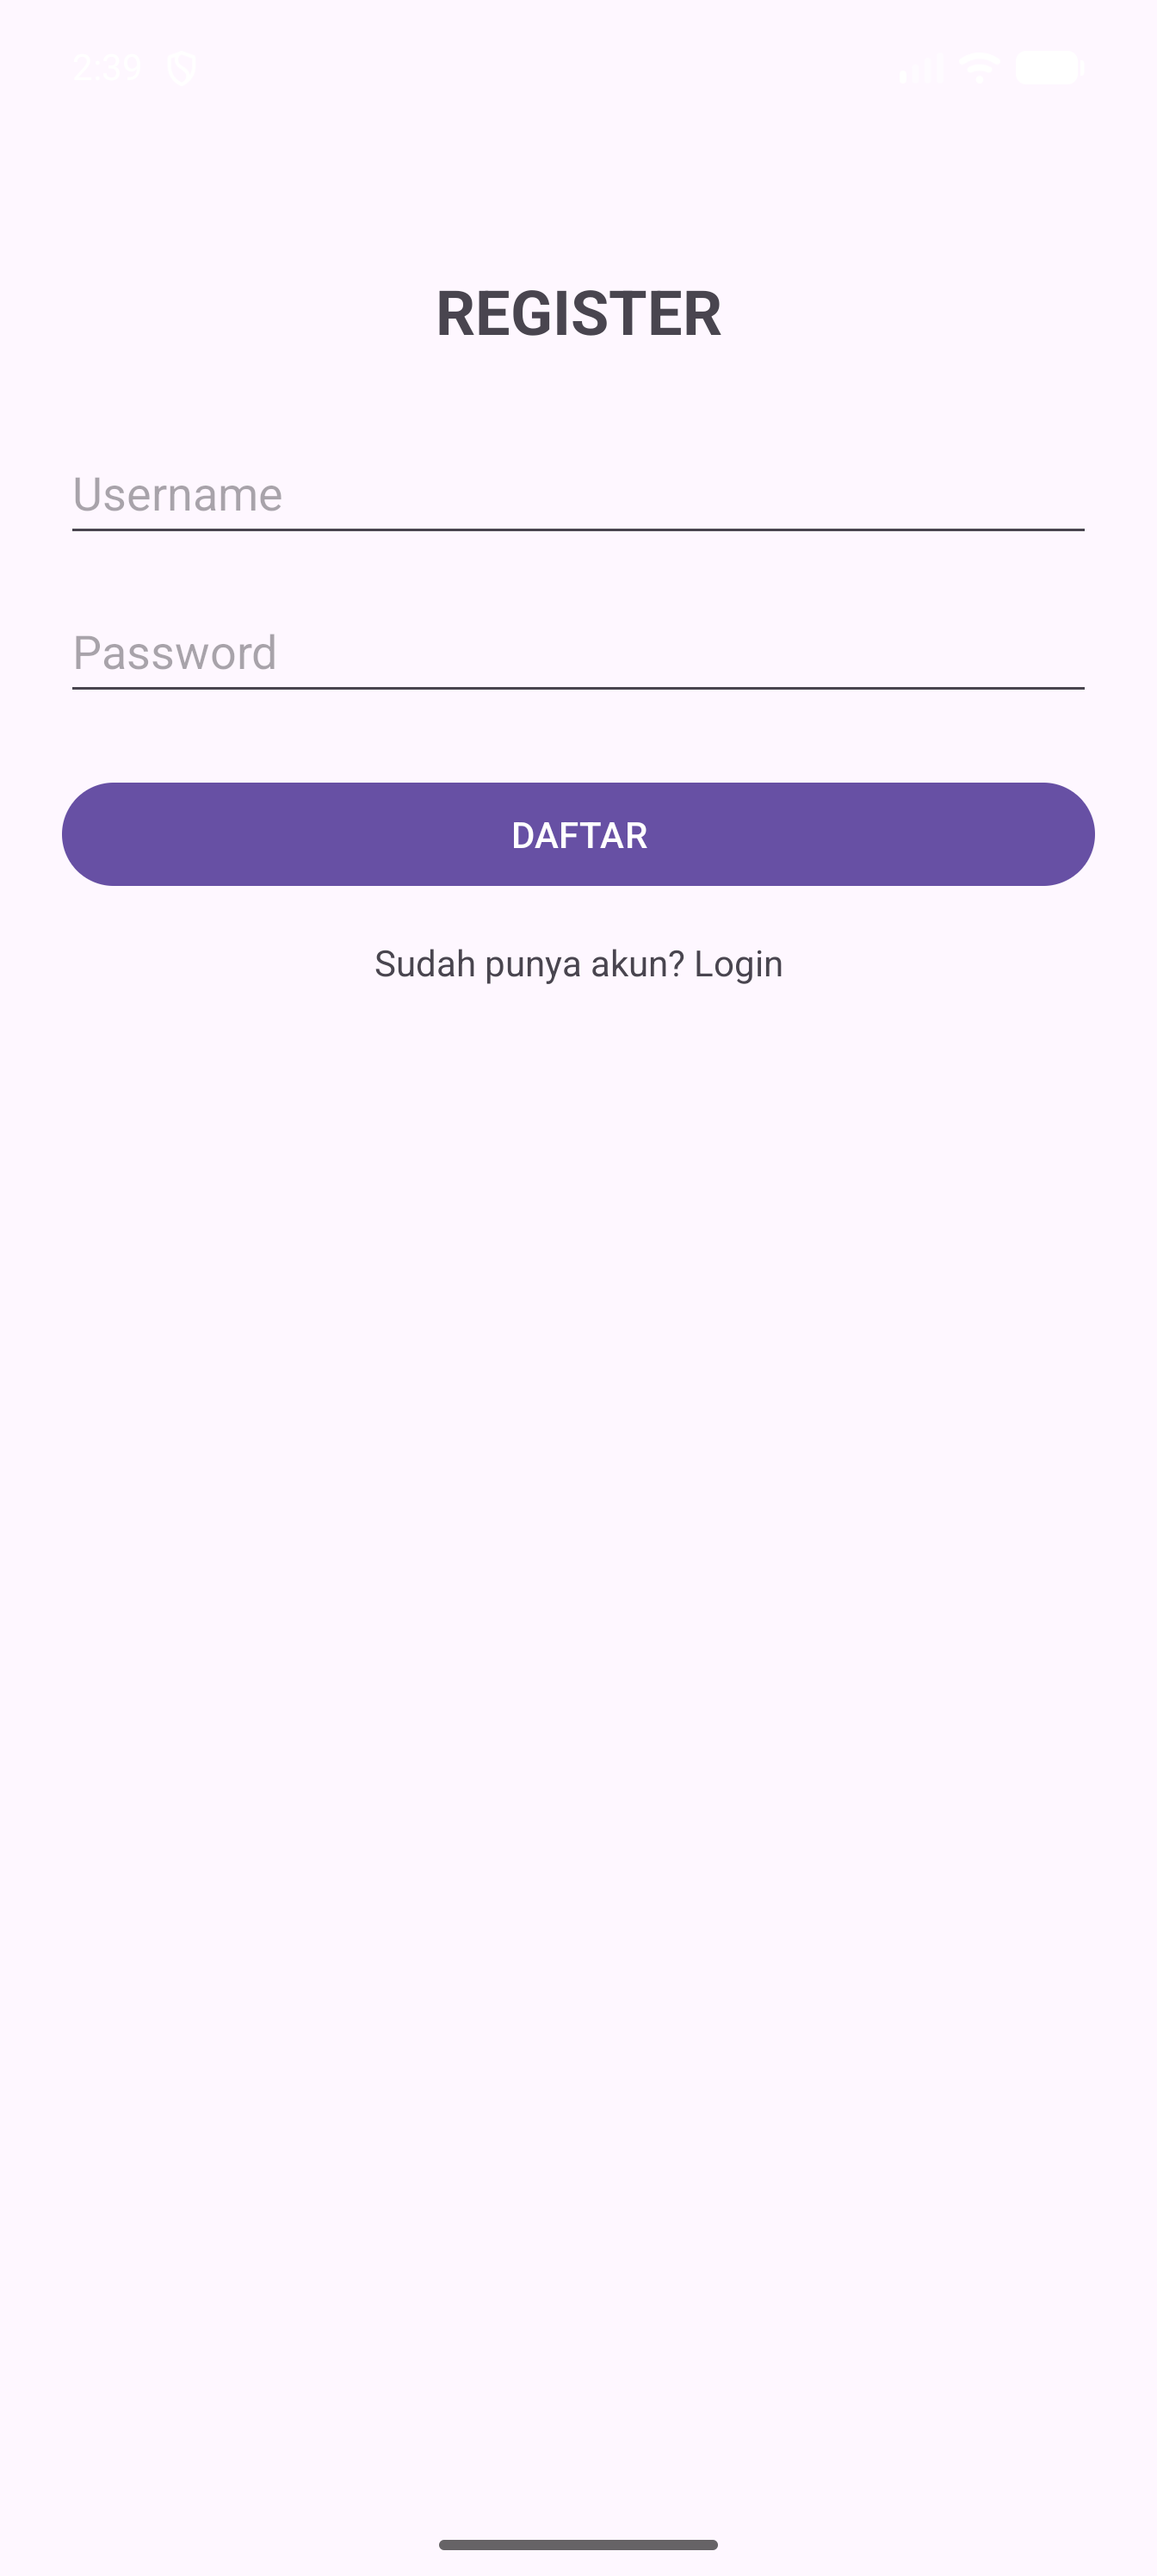
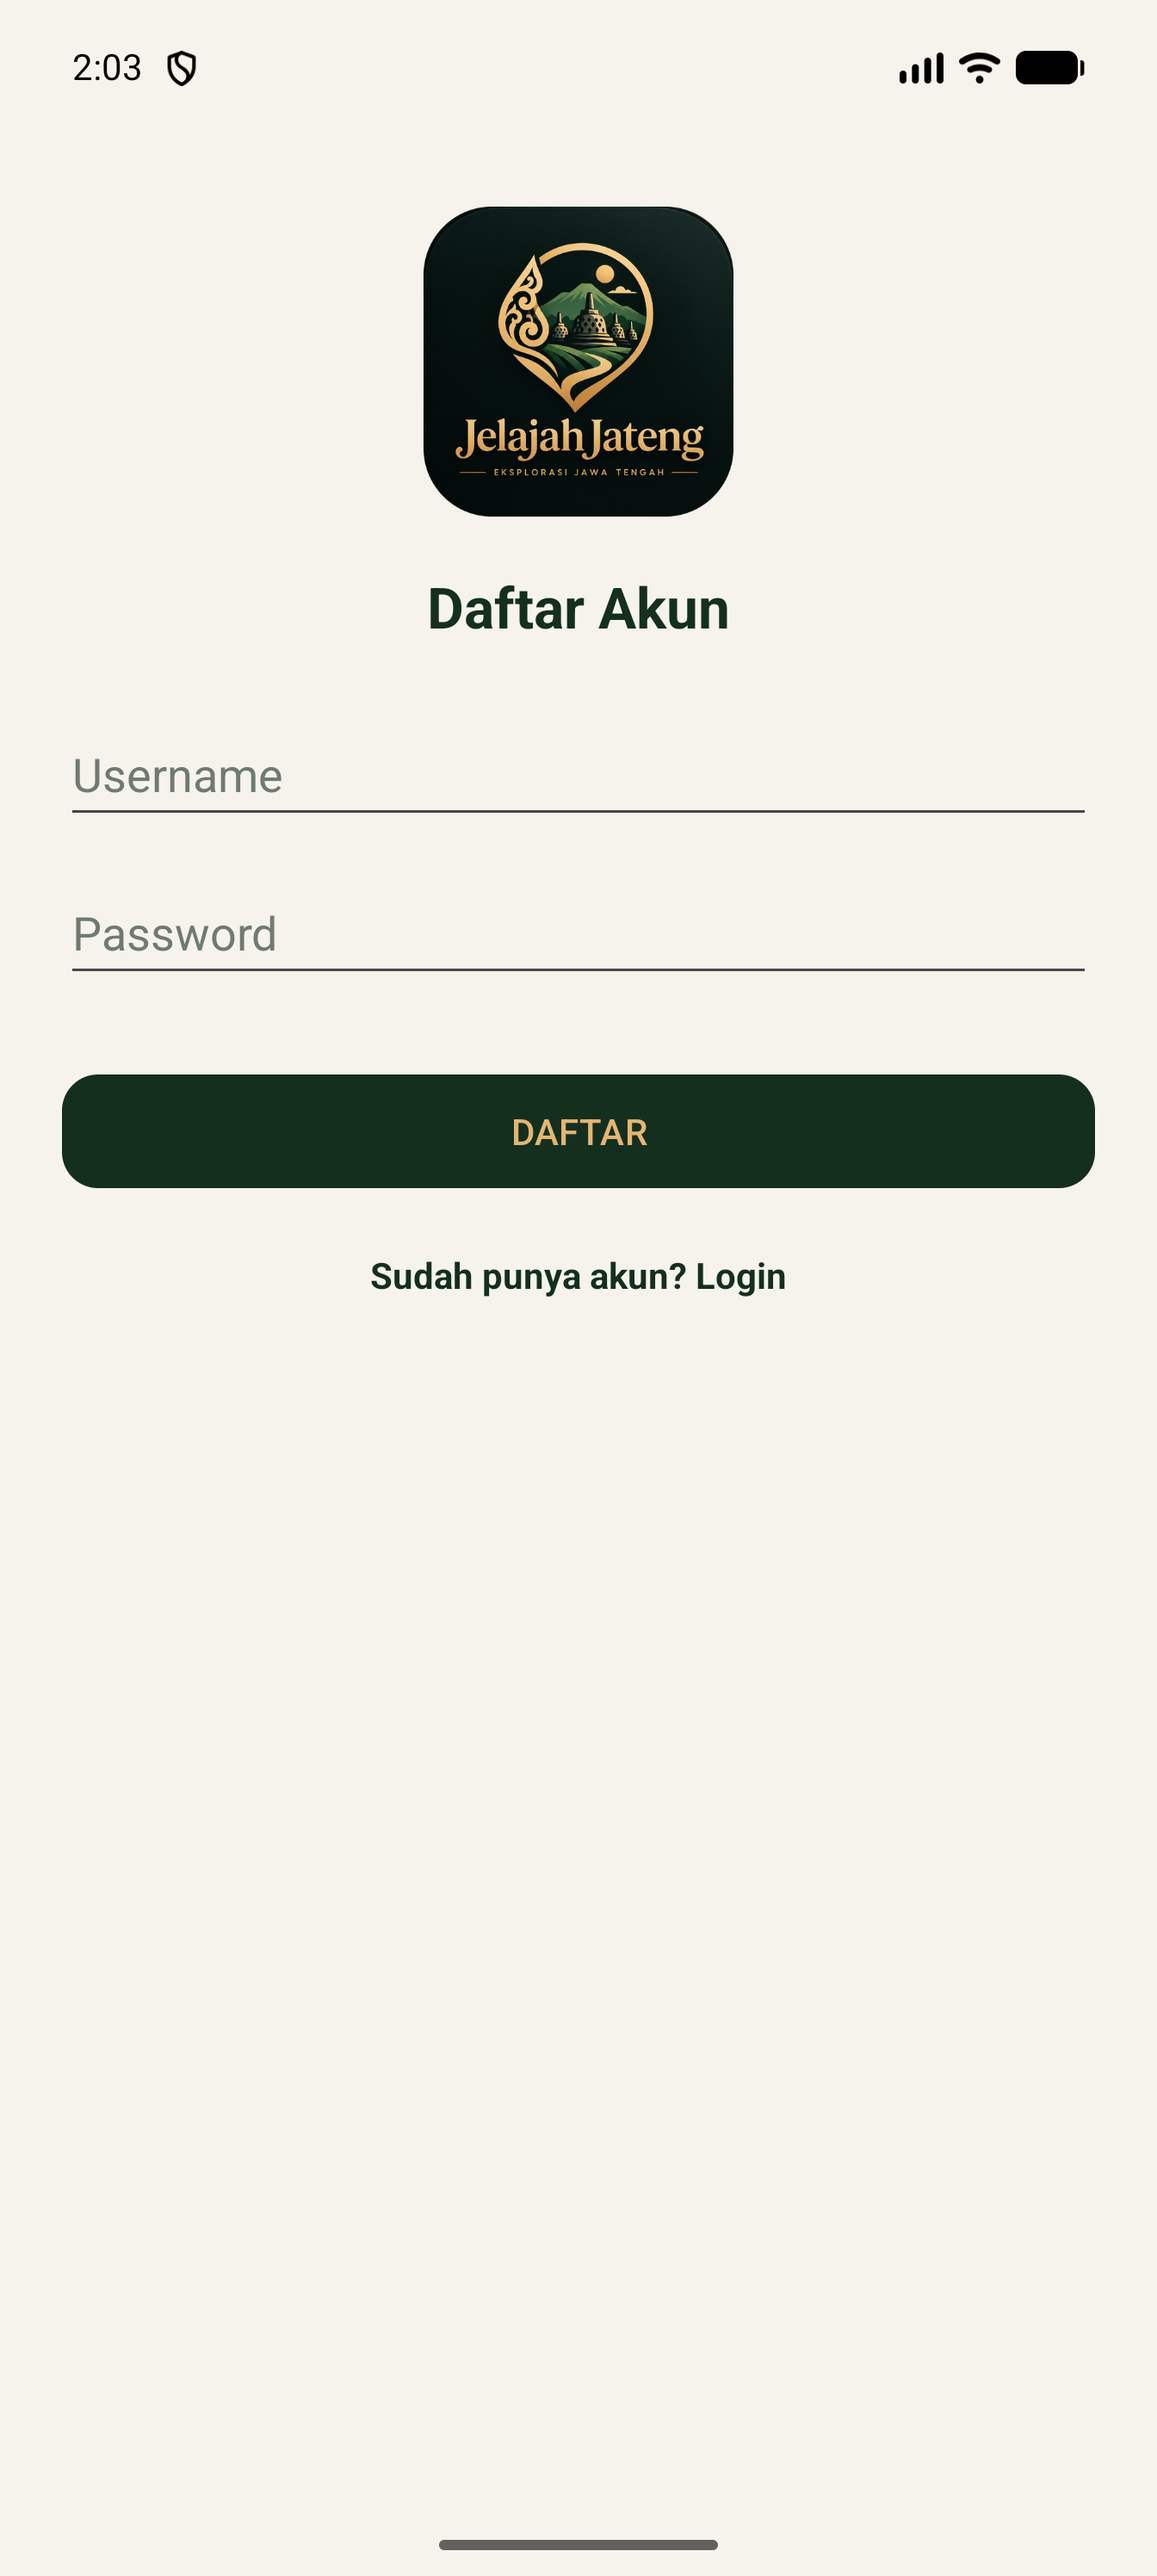
Perbarui tangkapan layar dan dokumentasi sesuai tampilan Jelajah Jateng
Tangkapan layar:
- 22 tangkapan layar diambil ulang memakai tampilan terkini, mencakup
  Splash, Home, Favorit, Profil, Login, Register, pencarian, detail,
  serta kondisi loading, empty, dan error.
- Kondisi loading diambil dengan memberi jeda sementara pada API di
  sisi lokal, lalu API dikembalikan ke keadaan semula.
- Tambah 24-dialog-alamat-server.png, tampilan dialog saat server
  tidak terjangkau, yang sebelumnya hanya dijelaskan lewat teks.
- 6-beranda.png tidak ikut diperbarui karena halaman tersebut sudah
  tidak ada sejak daftar wisata dipindah ke Home.

Dokumentasi:
- Tambah bagian Identitas Visual berisi cara logo dirapikan dan tabel
  asal setiap warna pada palet.
- Tambah bagian Perbaikan Force Close berisi penyebab dan perbaikannya.
- Perbarui daftar file baru, file yang berubah, dan tabel teknologi.
- Tambah catatan soal ikon peluncur, jarak tepi layar, dan mode gelap.

Lain-lain:
- Warna indikator loading pada halaman Detail disamakan dengan Home.

diff --git a/README.md b/README.md
@@ -10,6 +10,8 @@ Repository kumpulan tugas magang di Crocodic Semarang. Setiap tugas/fitur dikerj
 | `Tugas-4-Implementasi-Fitur-Search-Detail` | Pencarian destinasi wisata & halaman detail destinasi | Selesai |
 | `Tugas-5-Implementasi-Bottom-Navigation-Fragment-Splash-Screen-Logout` | Bottom Navigation, Fragment, Splash Screen, Session Login & Logout | Selesai |
 
+Seluruh tangkapan layar pada dokumen ini diambil ulang memakai tampilan aplikasi terkini, yaitu setelah aplikasi memakai identitas **Jelajah Jateng**. Jadi fitur dari tugas sebelumnya pun terlihat dengan warna dan tata letak yang berlaku sekarang.
+
 ---
 
 # Branch `Tugas-5-Implementasi-Bottom-Navigation-Fragment-Splash-Screen-Logout`
@@ -29,6 +31,80 @@ Untuk menyimpan status login pengguna, aplikasi menggunakan **Session Login**. S
 Pada halaman Profil ditambahkan fitur **Logout**. Ketika pengguna menekan tombol Logout, session login dihapus dan pengguna diarahkan kembali ke halaman Login.
 
 Dalam implementasinya, kode dibuat sederhana, rapi, dan terstruktur agar lebih mudah dipahami serta tidak terlalu banyak menggunakan kode yang rumit.
+
+## Identitas Visual
+
+Aplikasi diberi identitas **Jelajah Jateng** memakai logo bertema Jawa Tengah, berupa siluet candi dan pegunungan di dalam pin lokasi yang dipadukan dengan ukiran berwarna emas.
+
+Berkas logo aslinya berada di `login_api/uploads/logo_wisata.png` berukuran 1254 x 1254 piksel. Sebelum dipakai, logo dirapikan lebih dulu: margin hitam beserta bayangannya dipotong, gambar disamakan menjadi bujur sangkar, sudutnya dibulatkan dan dibuat transparan, lalu diperkecil menjadi 512 x 512 piksel. Hasilnya disimpan sebagai `res/drawable/logo_jelajah.png` dan dipakai pada Splash Screen, halaman Login, serta halaman Register.
+
+Warna aplikasi diambil langsung dari logo tersebut, bukan dipilih terpisah, supaya seluruh tampilan terasa menyatu:
+
+| Nama warna | Kode | Diambil dari | Dipakai untuk |
+|---|---|---|---|
+| `hijau_malam` | `#050F0E` | latar kotak logo | latar Splash Screen |
+| `hijau_hutan` | `#142F1E` | bagian tergelap pada logo | warna utama: header, tombol, menu aktif |
+| `hijau_daun` | `#46693F` | gunung dan sawah pada logo | hijau pendukung |
+| `emas` | `#E4B671` | tulisan dan ukiran pada logo | warna aksen |
+| `emas_muda` | `#F7EBD6` | turunan warna emas | label kategori dan indikator menu |
+| `krem` | `#F6F3EC` | netral hangat penyeimbang | latar halaman |
+
+Seluruh warna dikumpulkan di `res/values/colors.xml`, lalu dipasangkan ke warna bawaan Material 3 pada `res/values/themes.xml`:
+
+```xml
+<item name="colorPrimary">@color/hijau_hutan</item>
+<item name="colorOnPrimary">@color/emas</item>
+<item name="colorSecondary">@color/emas</item>
+<item name="colorSecondaryContainer">@color/emas_muda</item>
+```
+
+Karena diatur lewat tema, tombol, indikator Bottom Navigation, dan warna ikon ikut menyesuaikan sendiri tanpa perlu diatur satu per satu di setiap layout. Kode warna yang sebelumnya ditulis langsung di file layout diganti menjadi rujukan `@color/...`, sehingga mengubah warna aplikasi cukup dilakukan pada satu berkas saja.
+
+Halaman Home memakai header hijau bersudut bawah membulat dengan kolom pencarian yang sengaja diletakkan menumpuk pada tepi bawah header. Halaman Detail mendapat tombol kembali berbentuk bulat di atas foto serta garis aksen emas sebagai penanda judul deskripsi.
+
+## Perbaikan Force Close
+
+Pada pengujian ditemukan aplikasi berhenti sendiri beberapa detik setelah Splash Screen apabila server sedang tidak dapat dihubungi:
+
+```
+java.lang.IllegalStateException: Fragment HomeFragment not attached to an activity.
+    at androidx.fragment.app.Fragment.requireActivity(Fragment.java:995)
+    at HomeFragment.tampilkanError(HomeFragment.kt:303)
+```
+
+Penyebabnya, `MainActivity` membuat `HomeFragment` sebanyak dua kali ketika halaman utama dibuka:
+
+```kotlin
+// Sebelum
+if (savedInstanceState == null) {
+    bukaHalaman(HomeFragment())                 // Fragment pertama dibuat
+    bottomNav.selectedItemId = R.id.menuHome    // memicu listener, Fragment kedua dibuat
+}
+```
+
+Fragment pertama langsung digantikan Fragment kedua, padahal permintaan datanya sudah berjalan. Ketika permintaan itu gagal, `tampilkanError()` memanggil `requireActivity()` pada Fragment yang sudah terlepas dari Activity, lalu aplikasi berhenti.
+
+Perbaikannya dilakukan di dua tempat. Pertama, listener menu dipasang setelah halaman awal dibuka sehingga Fragment hanya dibuat satu kali:
+
+```kotlin
+// Sesudah
+if (savedInstanceState == null) {
+    bottomNav.selectedItemId = R.id.menuHome
+    bukaHalaman(HomeFragment())
+}
+
+bottomNav.setOnItemSelectedListener { menu -> ... }
+```
+
+Kedua, hasil permintaan jaringan hanya diproses selama Fragment masih menempel pada Activity:
+
+```kotlin
+private fun masihAktif(token: Int): Boolean {
+    return isAdded && view != null && token == tokenPermintaan
+}
+```
+
+Pengecekan tersebut sekaligus melindungi kondisi lain, misalnya pengguna berpindah ke menu Favorit atau Profil sewaktu data masih dimuat.
 
 ## Ketentuan Fitur
 
@@ -117,6 +193,12 @@ Dengan implementasi fitur tersebut, TravelDestinationApp memiliki navigasi yang 
 | `fragment_profile.xml` | Tampilan halaman profil |
 | `menu_bottom.xml` | Menu Bottom Navigation |
 | `ic_home.xml`, `ic_favorit.xml`, `ic_profil.xml` | Ikon menu Bottom Navigation |
+| `logo_jelajah.png` | Logo aplikasi hasil rapian, dipakai di Splash, Login, dan Register |
+| `bg_header.xml` | Latar header halaman Home dengan sudut bawah membulat |
+| `bg_pencarian.xml` | Latar kolom pencarian berbentuk kartu putih |
+| `bg_tombol_bulat.xml` | Latar bulat tombol kembali pada halaman Detail |
+| `ic_kembali.xml` | Ikon panah untuk tombol kembali |
+| `warna_menu_bawah.xml` | Warna ikon dan teks Bottom Navigation saat aktif maupun tidak |
 
 ## File yang Berubah
 
@@ -126,7 +208,15 @@ Dengan implementasi fitur tersebut, TravelDestinationApp memiliki navigasi yang 
 | `fragment_home.xml` | Nama file sebelumnya `activity_main.xml`. Tombol Logout di bagian atas dihapus karena Logout kini berada di halaman Profil |
 | `MainActivity.kt` | Tidak lagi berisi logika daftar wisata, kini hanya mengatur perpindahan Fragment |
 | `LoginActivity.kt` | Menyimpan session lewat `Sesi.simpan()` ketika login berhasil |
-| `AndroidManifest.xml` | `SplashActivity` menjadi halaman yang dibuka pertama kali |
+| `AndroidManifest.xml` | `SplashActivity` menjadi halaman yang dibuka pertama kali, memakai tema khusus agar ikon status bar terbaca di atas latar gelap |
+| `colors.xml` | Diisi palet warna yang diambil dari logo |
+| `themes.xml` | Palet dipasangkan ke warna Material 3, ditambah tema khusus Splash Screen |
+| `strings.xml` | Nama aplikasi menjadi `Jelajah Jateng` |
+| `activity_splash.xml` | Latar hijau gelap dengan logo di tengah, tulisan nama aplikasi dihapus karena sudah ada pada logo |
+| `activity_detail.xml` | Warna disesuaikan, ditambah tombol kembali dan garis aksen emas |
+| `DetailActivity.kt` | Menangani tombol kembali dan jarak tepi status bar |
+| `activity_login.xml`, `activity_register.xml` | Logo dipasang di bagian atas halaman |
+| `item_wisata.xml`, `fragment_profile.xml`, `fragment_favorite.xml`, `bg_kategori.xml` | Kode warna diganti menjadi rujukan `@color/...` |
 
 ## Isi `Sesi.kt`
 
@@ -183,6 +273,9 @@ private fun bukaHalaman(fragment: Fragment) {
 | Splash Screen | `Activity` + `Handler.postDelayed` |
 | Session login | `SharedPreferences` |
 | Ikon menu | Vector drawable |
+| Warna dan tema | Material 3 color roles + `colors.xml` |
+| Logo aplikasi | PNG dengan latar transparan |
+| Jarak tepi layar | `WindowInsetsCompat` |
 
 ## Tangkapan Layar
 
@@ -194,7 +287,12 @@ private fun bukaHalaman(fragment: Fragment) {
 | Favorit Fragment | Profil Fragment | Setelah Logout |
 |:---:|:---:|:---:|
 | <img src="screenshot/21-favorit-fragment.png" width="230"> | <img src="screenshot/22-profil-fragment.png" width="230"> | <img src="screenshot/23-logout-ke-login.png" width="230"> |
-| Halaman kedua yang dibuka lewat Bottom Navigation | Ikon profil, nama pengguna, dan tombol Logout | Session dihapus dan aplikasi kembali ke halaman Login |
+| Halaman kedua yang dibuka lewat Bottom Navigation | Ikon profil, nama pengguna, dan tombol Logout berwarna hijau dengan tulisan emas | Session dihapus dan aplikasi kembali ke halaman Login |
+
+| Halaman Login | Halaman Register |
+|:---:|:---:|
+| <img src="screenshot/1-login.png" width="230"> | <img src="screenshot/2-register.png" width="230"> |
+| Logo dipasang di bagian atas sebagai penanda identitas aplikasi | Warna tombol dan tautan mengikuti tema yang sama dengan halaman Login |
 
 ## Catatan
 
@@ -202,7 +300,9 @@ private fun bukaHalaman(fragment: Fragment) {
 - Username tidak lagi dikirim antar halaman memakai `Intent.putExtra`. Halaman Home mengambilnya langsung dari session lewat `Sesi.ambilUsername()`.
 - Tombol Logout di bagian atas halaman Home dihapus supaya tidak ada dua tombol dengan fungsi yang sama. Logout hanya tersedia di halaman Profil sesuai ketentuan tugas.
 - Nama pengguna pada halaman Profil dan sapaan pada halaman Home sama-sama dibaca dari session lewat `Sesi.ambilUsername()`.
-- Pada Android 12 ke atas, sistem menampilkan splash bawaan berisi ikon aplikasi sesaat sebelum `SplashActivity` muncul. Hal tersebut merupakan bawaan sistem, bukan bagian dari layout `activity_splash.xml`.
+- Pada Android 12 ke atas, sistem menampilkan splash bawaan berisi ikon aplikasi sesaat sebelum `SplashActivity` muncul. Hal tersebut merupakan bawaan sistem, bukan bagian dari layout `activity_splash.xml`. Ikon peluncur aplikasi sendiri masih memakai ikon bawaan Android Studio, sehingga splash bawaan sistem belum memakai logo Jelajah Jateng.
+- Mulai Android 15, warna status bar tidak lagi dapat diatur lewat `android:statusBarColor`. Karena itu jarak untuk status bar diatur dari kode memakai `WindowInsetsCompat`, sehingga bagian atas layar ikut berwarna hijau menyatu dengan header, sedangkan Bottom Navigation tetap putih sampai ke tepi bawah layar.
+- Warna pada mode gelap sengaja dibuat sama dengan mode terang. Tujuannya agar tampilan tetap konsisten, sebab warna pada layout ditulis sebagai warna tetap yang diambil dari logo.
 
 ---
 
@@ -629,9 +729,10 @@ Tiga penanda yang menjaga alur ini tetap benar:
 |:---:|:---:|:---:|
 | <img src="screenshot/8-wisata-loading-awal.png" width="230"> | <img src="screenshot/9-wisata-daftar.png" width="230"> | <img src="screenshot/10-wisata-loading-berikutnya.png" width="230"> |
 
-| Seluruh Data Selesai Dimuat | Kondisi Gagal Memuat |
-|:---:|:---:|
-| <img src="screenshot/11-wisata-data-habis.png" width="230"> | <img src="screenshot/12-wisata-error.png" width="230"> |
+| Seluruh Data Selesai Dimuat | Kondisi Gagal Memuat | Dialog Alamat Server |
+|:---:|:---:|:---:|
+| <img src="screenshot/11-wisata-data-habis.png" width="230"> | <img src="screenshot/12-wisata-error.png" width="230"> | <img src="screenshot/24-dialog-alamat-server.png" width="230"> |
+| Keterangan muncul setelah kartu terakhir | Pesan gagal yang dapat diketuk untuk memuat ulang | Muncul saat server tidak terjangkau, alamat baru dapat langsung diisi di sini |
 
 ## Catatan
 
